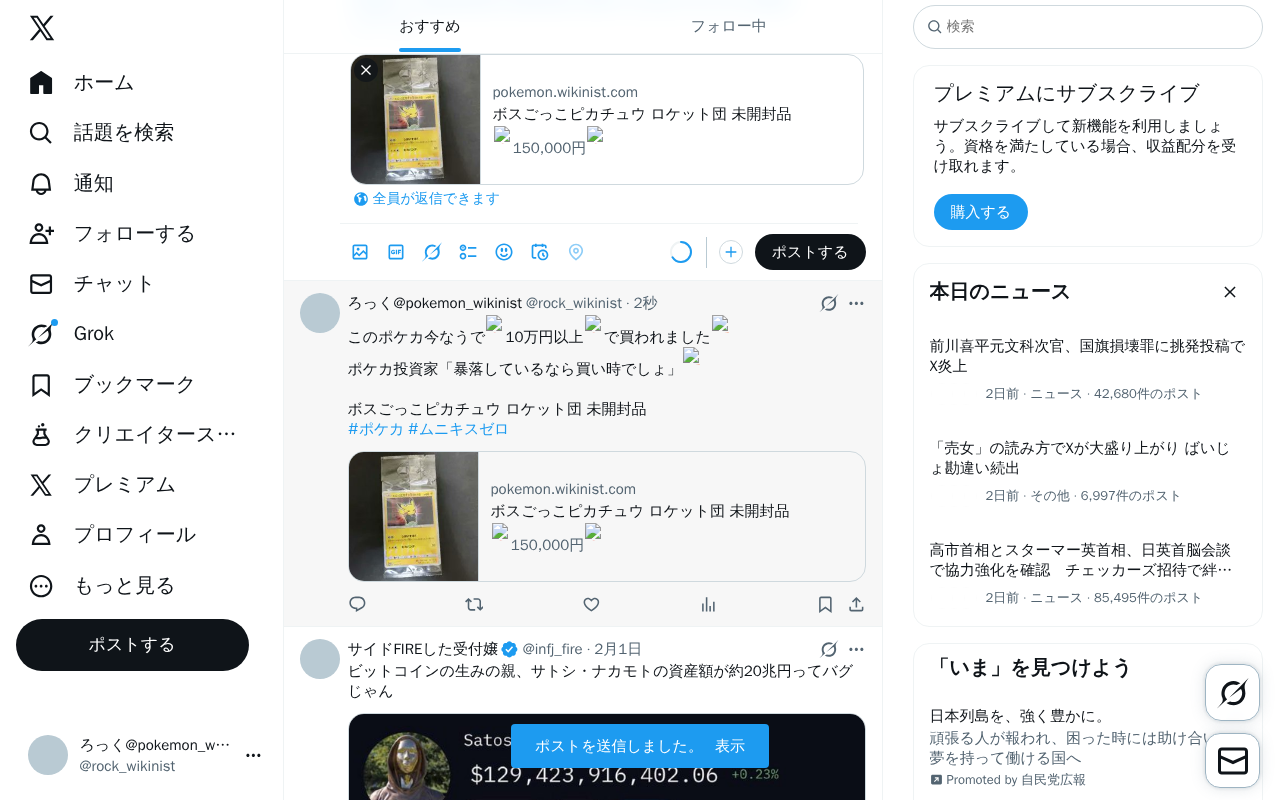
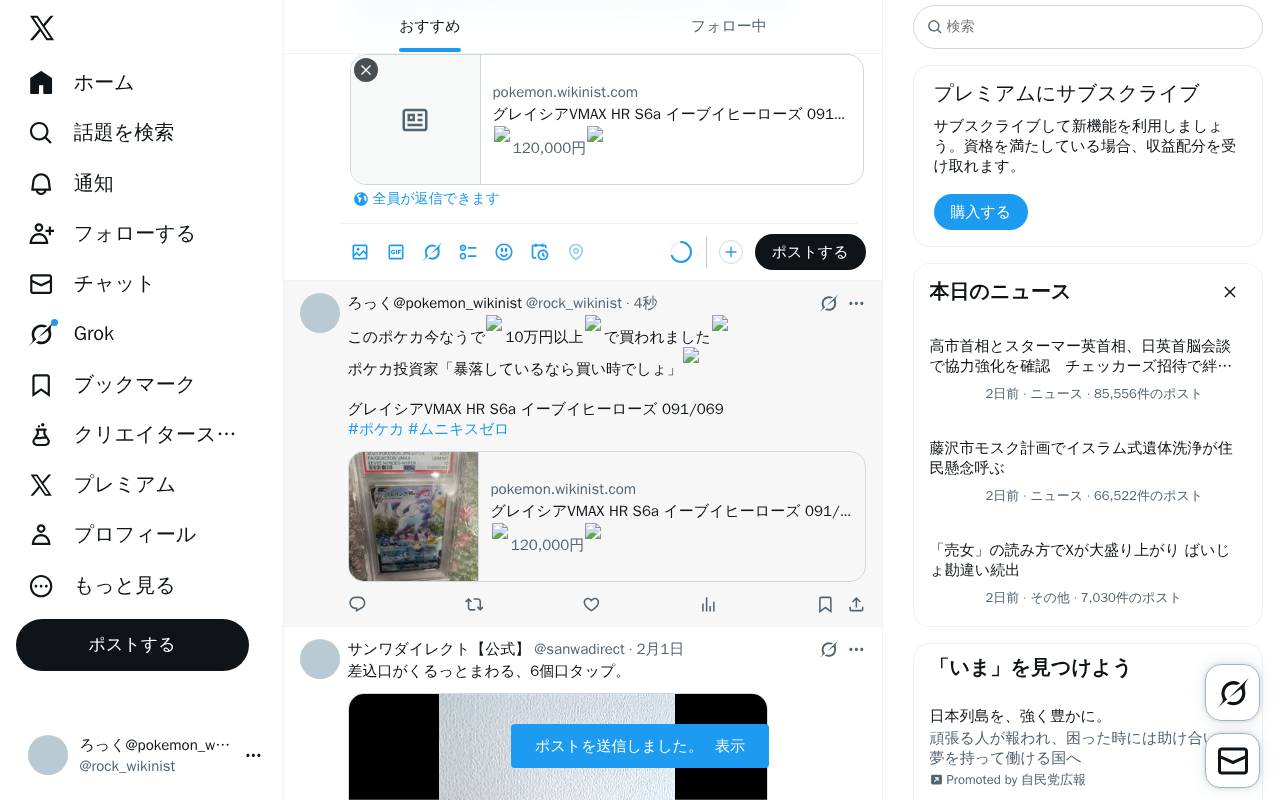
update system data

diff --git a/content/posts/test-pokemon-20260202-212623.md b/content/posts/test-pokemon-20260202-212623.md
@@ -1,0 +1,38 @@
+---
+title: "グレイシアVMAX HR S6a イーブイヒーローズ 091/069"
+date: 2026-02-02T21:26:23+09:00
+description: "🔥120,000円🔥 メルカリで「グレイシアVMAX HR S6a イーブイヒーローズ 091/069」が販売中！"
+amazon_url: "https://jp.mercari.com/item/m43000486338?afid=1391290753"
+robotsNoIndex: true
+categories: ["ポケモン"]
+tags: ["10万円以上"]
+cover:
+  image: "https://static.mercdn.net/thumb/item/webp/m43000486338_1.jpg?1770026205"
+  hiddenInList: true
+  hiddenInSingle: true
+---
+
+<div class="image-and-buttons">
+    <div class="image-area" style="margin-bottom: 20px; text-align: center;">
+        <a href="https://jp.mercari.com/item/m43000486338?afid=1391290753" target="_blank" rel="nofollow sponsored noopener noreferrer">
+            <img src="https://static.mercdn.net/thumb/item/webp/m43000486338_1.jpg?1770026205" alt="120,000" style="max-width: 100%; border-radius: 8px; border: 1px solid #ddd;" />
+        </a>
+        <br><span style="font-size:1.5em;color:red;font-weight:bold;">🔥120,000円🔥</span>
+    </div>
+    <div class="link-buttons">
+        <a href="https://jp.mercari.com/item/m43000486338?afid=1391290753" target="_blank" rel="nofollow sponsored noopener noreferrer">
+            💎 商品状態を見る
+        </a>
+        <a href="https://jp.mercari.com/search?afid=1391290753&category_id=1289&keyword=%E3%82%B0%E3%83%AC%E3%82%A4%E3%82%B7%E3%82%A2VMAX%20HR%20S6a%20%E3%82%A4%E3%83%BC%E3%83%96%E3%82%A4%E3%83%92%E3%83%BC%E3%83%AD%E3%83%BC%E3%82%BA%20091%2F069" target="_blank" rel="nofollow sponsored noopener noreferrer">
+            🔍 類似商品を見る
+        </a>
+        <a href="https://jp.mercari.com/search?afid=1391290753&brand_id=&category_id=1289&color_id=&item_condition_id=&item_types=&keyword=%E3%82%B0%E3%83%AC%E3%82%A4%E3%82%B7%E3%82%A2VMAX%20HR%20S6a%20%E3%82%A4%E3%83%BC%E3%83%96%E3%82%A4%E3%83%92%E3%83%BC%E3%83%AD%E3%83%BC%E3%82%BA%20091%2F069&order=desc&shipping_method=&shipping_payer_id=&size_id=&sort=created_time&status=sold_out%2Ctrading" target="_blank" rel="nofollow sponsored noopener noreferrer">
+            📈 価格推移・履歴を見る
+        </a>
+    </div>
+</div>
+
+<p style="font-size:1.0em;color:#555;line-height:1.6;">
+「グレイシアVMAX HR S6a イーブイヒーローズ 091/069」はメルカリに出品されました！<br>
+最新のポケモン情報は当サイトで随時更新中です。
+</p>
